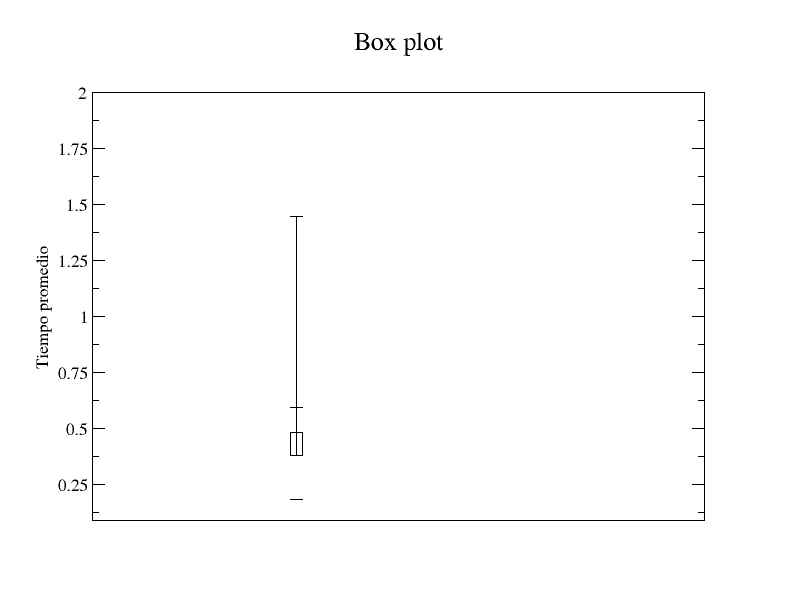
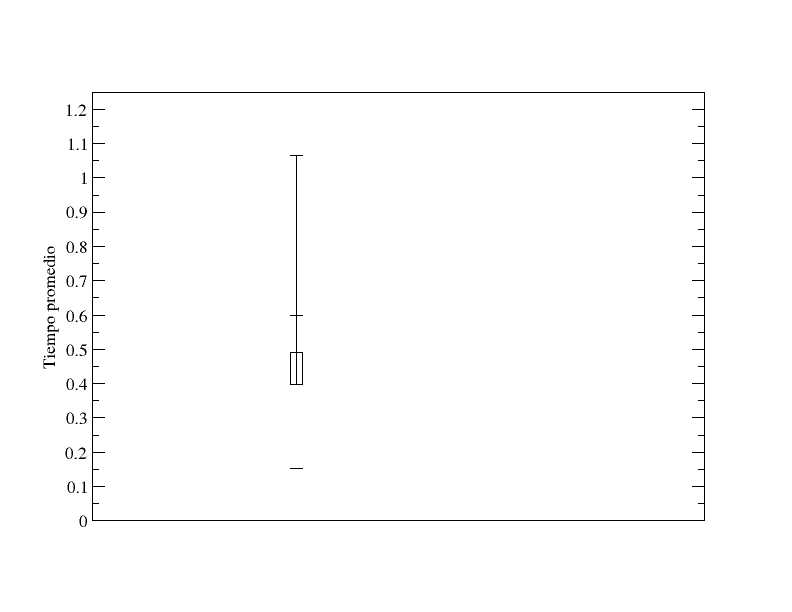
ahora si...

diff --git a/main.c b/main.c
@@ -9,7 +9,7 @@
 #include "sort.h"
 #include "densities.h"
 #include "tests.h"
-
+#include "special.h"
 #define BITS 32
 
 void run_server_simulation(randgen rg, double *results, int n);
@@ -41,7 +41,7 @@ int main(int argc, char *argv[]){
     double *results, *probabilities;   
     double mean, median, median1, median2, s2, skewness, min, max, ln_mean, ln_s2, alpha, beta, gamma_fn, deltab;
         
-    rg = create_rg(RAN2, 5, BITS);
+    rg = create_rg(RAN2, 1, BITS);
     printf("\n");        
 
     sample = 500;
@@ -94,8 +94,8 @@ int main(int argc, char *argv[]){
     printf("Normal(%f, %f)\n", mean, s2*((sample-1)/(double)sample));
     printf("Lognormal(%f, %f)\n", ln_mean, ln_s2);
     
-    alpha = 9.539; /*Valor tabulado por T = 18.741333 = estimate_gamma_t(sample, results)*/
-    gamma_fn = 129979; /*integrate x^(alpha - 1)*e^(-x) from 0 to infinity*/
+    alpha = 9.789; /*Valor tabulado por T = 19.110559 = estimate_gamma_t(sample, results)*/
+    gamma_fn = 226175; /*integrate x^(alpha - 1)*e^(-x) from 0 to infinity*/
     beta = mean/alpha;
     printf("Gamma(%f, %f)\n", alpha, beta);    
 
@@ -104,6 +104,7 @@ int main(int argc, char *argv[]){
     /*Actividad 4*/
     k = 25;
     deltab = (max+0.01)/k;
+    
     /*4.a)*/    
        
     normal_frequencies(results, sample, mean, s2*((sample-1)/(double)sample), deltab);
@@ -114,10 +115,10 @@ int main(int argc, char *argv[]){
     
     ocurrencies = calloc(k, sizeof(int));    
     calculate_ocurrencies(results, sample, k, deltab, ocurrencies);
-    ocurrencies[k-1] = 0; /*Se descarta la ocurrencia del maximo*/
     
     printf("\nNormal\n");
     printf("======\n");
+    
     probabilities = calloc(k, sizeof(double));    
 
     calculate_probabilities_normal(k, deltab, mean, s2*((sample-1)/(double)sample), probabilities);    
@@ -297,65 +298,37 @@ void calculate_probabilities_gamma(int k, double deltab, double alpha, double be
     double m, y;
     m = deltab/2.;
     for(i=0; i<k; i++){
-        y = i*deltab + m;
+        y =  i*deltab + m;
         probabilities[i] = deltab*gamma(y, alpha, beta, gamma_fn);
     }
 }
 
 double cumulative_normal(double x){
-    int i, k = 200;
-    double max = 1.444631;
-    double deltab = (max+0.01)/k;
-    double m, y, res=0;
-    double mean, s2;
-    mean = 0.501527;
-    s2 = 0.027762;
+    double y, mean, s2;
+
+    mean = 0.509307;
+    s2 = 0.026826;
     
-    m = deltab/2.;
-    i = 0;
-    while(x > deltab*i){
-        y = i*deltab + m;
-        res += deltab*normal(y, mean, s2);
-        i++;
-    }
-    return res;
+    y = (x-mean)/sqrt(s2);
+    return 0.5*(1 + erff(y/sqrt(2.)));
 }
 
 double cumulative_lognormal(double x){
-    int i, k = 200;
-    double max = 1.444631;
-    double deltab = (max+0.01)/k;
-    double m, y, res=0;
-    double ln_mean, ln_s2;
-    ln_mean = -0.743456;
-    ln_s2 = 0.107764;
-    
-    m = deltab/2.;
-    i = 0;
-    while(x > deltab*i){
-        y = i*deltab + m;
-        res += deltab*lognormal(y, ln_mean, ln_s2);
-        i++;
-    }
-    return res;
+    double ln_mean, ln_s2, y;
+
+    ln_mean = -0.727032;
+    ln_s2 = 0.108136;
+
+    y = (log(x) - ln_mean)/sqrt(ln_s2); /*log(x)~N(ln_mean, ln_s2) => y ~ N(0,1)*/
+    return 0.5*(1 + erff(y/sqrt(2.)));
 }
 
 double cumulative_gamma(double x){
-    int i, k = 200;
-    double max = 1.444631;
-    double deltab = (max+0.01)/k;
-    double m, y, res=0;
     double alpha, beta, gamma_fn;
-    alpha = 9.539000;
-    beta = 0.052576;
-    gamma_fn = 129979;
     
-    m = deltab/2.;
-    i = 0;
-    while(x > deltab*i){
-        y = i*deltab + m;
-        res += deltab*gamma(y, alpha, beta, gamma_fn);
-        i++;
-    }
-    return res;
+    alpha = 9.789000;
+    beta = 0.052028;
+    gamma_fn = 226175;
+    
+    return gammp(alpha, x/beta);
 }

diff --git a/informe.tex b/informe.tex
@@ -5,6 +5,7 @@
 \usepackage{amsfonts}
 \usepackage{amssymb}
 \usepackage{graphicx}
+\usepackage{textcomp}
 \author{Santiago Videla - Francisco Javier Herrero}
 \title{Pr\'actico Especial II: Selecci\'on de Distribuciones de Probabilidad}
 \pagestyle{headings}
@@ -13,5 +14,85 @@
 \newpage
 \tableofcontents
 \newpage
+
+\section{Independencia estad\'istica}
+
+\paragraph{}
+A partir de los datos obtenidos en la simulaci\'on, se corroboro la
+independencia de los mismos mediante un \textit{scatter plot} como se puede ver
+en la Figura~\ref{scatter}. Los valores observados, se distribuyen de manera
+aleatoria en el primer cuadrante del plano, lo que indica la independencia de
+los datos.
+
+\begin{figure}
+  \centering
+  \includegraphics[scale=0.5]{scatter.png} 
+  \caption{Scatter}
+  \label{scatter}
+\end{figure}
+
+\section{Estad\'istica}
+
+\begin{itemize}
+  \item \textbf{M\'inimo:} 0.153672
+  \item \textbf{M\'aximo:} 1.064818
+  \item \textbf{Mediana:} 0.491458
+  \item \textbf{Media:} 0.509307
+  \item \textbf{1er. cuartil}: 0.398686
+  \item \textbf{2do. cuartil}: 0.600152
+  \item \textbf{Varianza:} 0.026880
+  \item \textbf{Asimetria:} 0.652167
+\end{itemize}
+
+\begin{figure}
+  \centering
+  \includegraphics[scale=0.5]{histogram.png} 
+  \caption{Histograma}
+  \label{histogram}
+\end{figure}
+
+\begin{figure}
+  \centering
+  \includegraphics[scale=0.5]{boxplot.png} 
+  \caption{Boxplot}
+  \label{boxplot}
+\end{figure}
+
+\section{Estimacion de par\'ametros}
+
+\begin{itemize}
+  \item N($\mu$, $\sigma^{2}$): \\
+    $\mu = 0.509307$ \\
+    $\sigma^{2} = 0.026826$
+  \item LN($\mu$, $\sigma^{2}$): \\
+    $\mu = -0.727032$ \\
+    $\sigma^{2} = 0.108136$
+  \item Gamma($\alpha$, $\beta$): \\
+    $\alpha = 9.789000$ \\
+    $\beta = 0.052028$
+\end{itemize}
+
+\section{Bondad de los ajustes}
+
+\begin{figure}
+  \centering
+  \includegraphics[scale=0.5]{freq-normal.png} 
+  \caption{Muestra/Normal}
+  \label{freq-normal}
+\end{figure}
+
+\begin{figure}
+  \centering
+  \includegraphics[scale=0.5]{freq-lognormal.png} 
+  \caption{Muestra/LogNormal}
+  \label{freq-lognormal}
+\end{figure}
+
+\begin{figure}
+  \centering
+  \includegraphics[scale=0.5]{freq-gamma.png} 
+  \caption{Muestra/Gamma}
+  \label{freq-gamma}
+\end{figure}
 
 \end{document}

diff --git a/tests.c b/tests.c
@@ -17,11 +17,11 @@ double chi_square(double a, double x){
 double calculate_t(int k, int m, int *n, double *p){
     int i;
     double t, tmp=0;
-    
+
     for(i=0;i<k;i++){
         tmp = pow(n[i] - m*p[i], 2)/(m*p[i]);
         t += tmp;
-/*        printf("%i \t %f \t %f \n", n[i], m*p[i], pow(n[i] - m*p[i], 2)/(m*p[i]));*/
+/*        printf("%e \t %f \t %f \t %f \t %f\n", p[i], m*p[i], n[i] - m*p[i], pow(n[i] - m*p[i], 2), tmp);*/
 
     }
     

diff --git a/special.c b/special.c
@@ -118,3 +118,6 @@ float gammln(float xx){
     return -tmp+log(2.5066282746310005*ser/x);
 }
 
+float erff(float x){
+    return x<0.0 ? -gammp(0.5, pow(x,2)) : gammp(0.5, pow(x,2));
+}

diff --git a/special.h b/special.h
@@ -3,5 +3,5 @@
 
 float gammp(float a, float x);
 float gammq(float a, float x);
-
+float erff(float x);
 #endif
